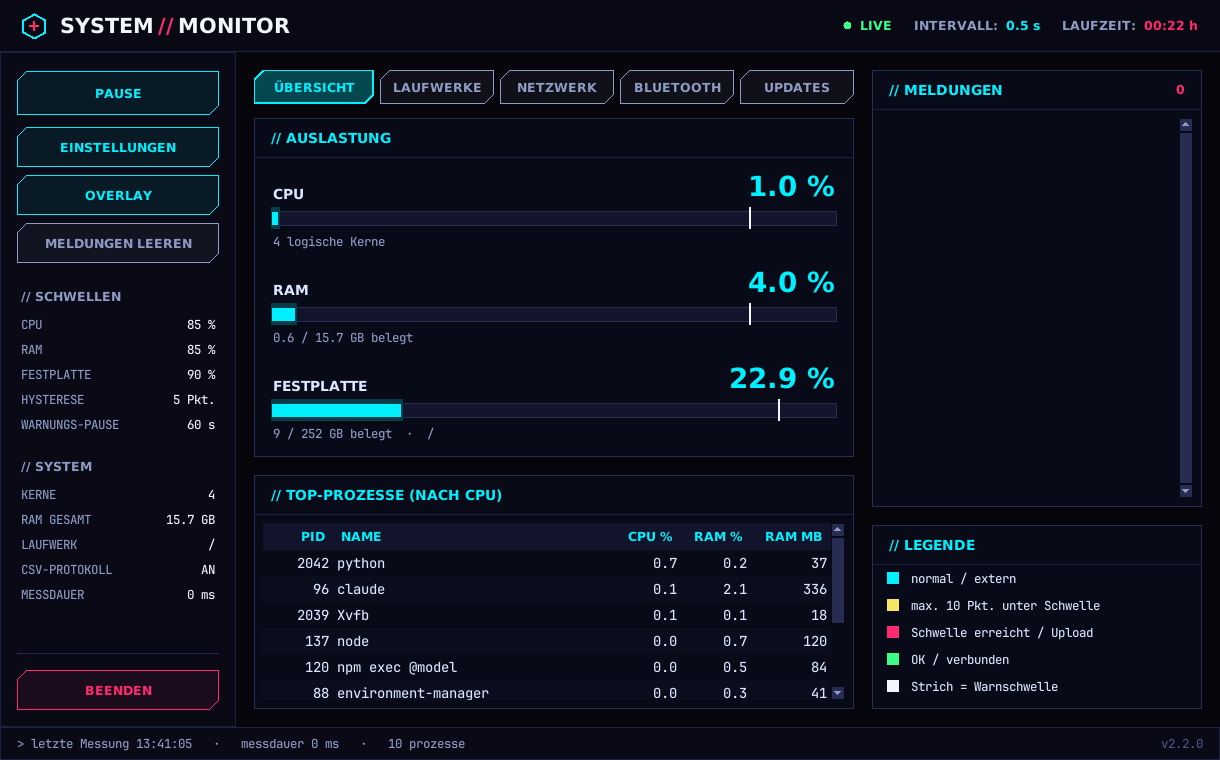
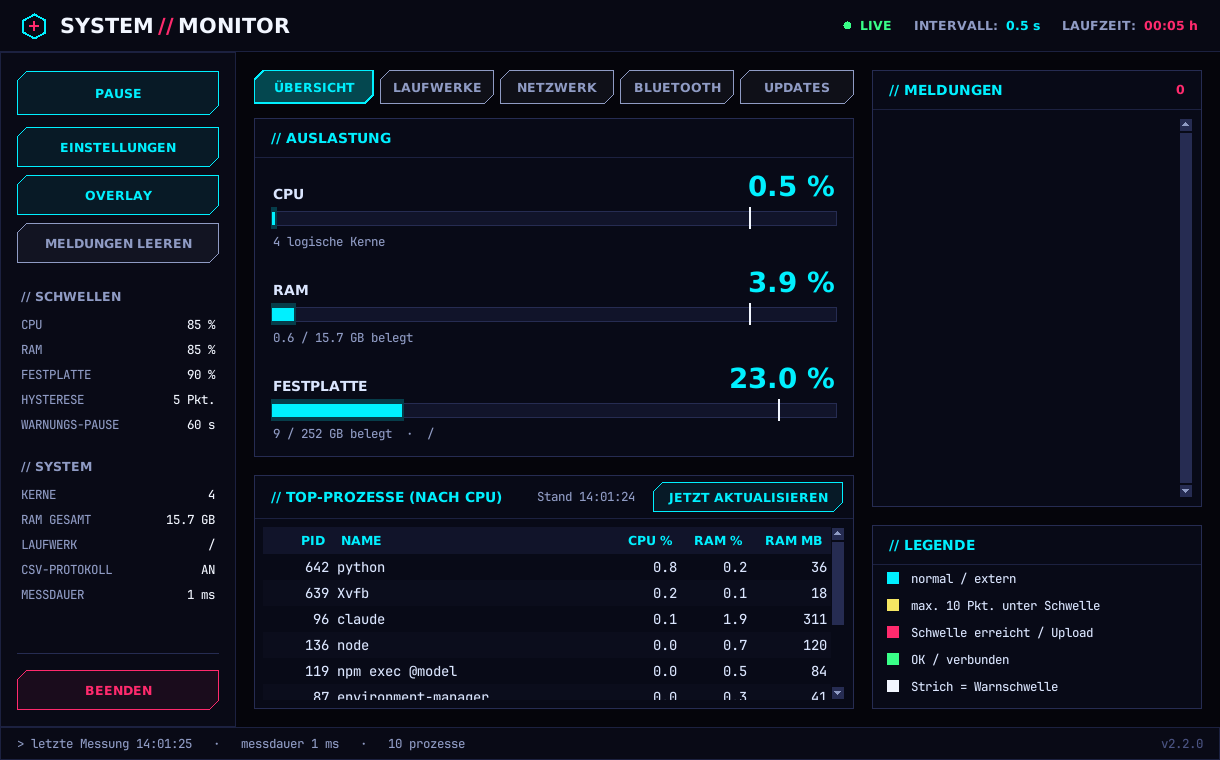
Prozessliste: Standardintervall 30 s, Knopf JETZT AKTUALISIEREN, Stand-Anzeige
Claude-Session: https://claude.ai/code/session_01Ug7stJ8eyGfn4FpXYDmT9c

diff --git a/system_monitor/monitor/gui.py b/system_monitor/monitor/gui.py
@@ -447,6 +447,10 @@ class MonitorApp:
 
         procs = self._panel(view, "TOP-PROZESSE (NACH CPU)")
         procs.grid(row=1, column=0, sticky="nsew")
+        self._small_button(procs.head, "JETZT AKTUALISIEREN", self.refresh_processes, width=190).pack(
+            side="right", padx=10, pady=6)
+        self.proc_stamp = self._label(procs.head, "Stand –", fg=C["muted"], font=self.f_small)
+        self.proc_stamp.pack(side="right", padx=6)
         self.tree = self._tree(procs.body, [("pid", "PID", 70, "e", False), ("name", "NAME", 150, "w", True),
                                             ("cpu", "CPU %", 70, "e", False), ("ram", "RAM %", 70, "e", False),
                                             ("mb", "RAM MB", 80, "e", False)], height=6)
@@ -787,6 +791,7 @@ class MonitorApp:
         if s.processes is not self._last_processes:       # Prozessliste unverändert -> nichts tun
             self._last_processes = s.processes
             self._update_tree(s)
+            self._set(self.proc_stamp, f"Stand {s.timestamp:%H:%M:%S}", fg=C["muted"])
 
     def _update_tree(self, s: Snapshot) -> None:
         """Vorhandene Zeilen wiederverwenden, nur geänderte Werte schreiben."""
@@ -981,6 +986,16 @@ class MonitorApp:
                       fg=C["green"])
         except Exception as exc:
             messagebox.showerror("Updates", str(exc), parent=self.root)
+
+    def refresh_processes(self) -> None:
+        """Prozessliste sofort neu erstellen (Knopf). Sie wird sonst nur alle process_interval_s Sekunden erstellt,
+        und nur, solange die Ansicht Übersicht sichtbar ist (der Scan dauert unter Windows mehrere Sekunden)."""
+        if self._minimized() or self._view != TAB_OVERVIEW:
+            return
+        self.monitor.collector.invalidate_processes()
+        self._set(self.proc_stamp, "wird erstellt …", fg=C["yellow"])
+        self.runner.submit("measure", lambda: self._measure(False),
+                           lambda res: self._handle("Messung", res, self._show_measurement))
 
     # ================================================================== Overlay
     def toggle_overlay(self) -> None:

diff --git a/system_monitor/tests/test_gui_smoke.py b/system_monitor/tests/test_gui_smoke.py
@@ -104,3 +104,28 @@ def test_hauptfenster_versteckt_zeichnet_nichts_und_scannt_nicht(app):
     app._hotkey_events.put("toggle")                # Tastenkürzel zurück
     pump(app, 0.5)
     assert not app.overlay.visible and app.root.state() == "normal"
+
+
+def test_knopf_aktualisiert_die_prozessliste_sofort(app):
+    pump(app, 2.5)
+    app.monitor.collector.process_interval_s = 3600      # automatisch praktisch nie
+    app.monitor.collector.invalidate_processes()
+    pump(app, 2.5)                                       # ein Scan läuft jetzt noch
+    before = len(app.process_calls)
+    pump(app, 2.0)
+    assert len(app.process_calls) == before              # ohne Knopf passiert nichts
+    app.refresh_processes()
+    pump(app, 3.0)
+    assert len(app.process_calls) == before + 1
+    assert app.proc_stamp.cget("text").startswith("Stand")
+
+
+def test_knopf_ist_in_anderer_ansicht_wirkungslos_bis_zur_uebersicht(app):
+    from monitor import gui
+    pump(app, 2.0)
+    app.select_view(gui.TAB_DRIVES)
+    app.monitor.collector.process_interval_s = 3600
+    n = len(app.process_calls)
+    app.refresh_processes()                              # nicht in der Übersicht: kein Scan
+    pump(app, 2.0)
+    assert len(app.process_calls) == n

diff --git a/system_monitor/monitor/config.py b/system_monitor/monitor/config.py
@@ -27,7 +27,7 @@ class Config:
     disk_path: str = ""              # leer = Systemlaufwerk automatisch
     alert_cooldown_s: int = 60       # Mindestabstand zwischen gleichen Warnungen
     top_processes: int = 10          # Anzahl angezeigter Prozesse
-    process_interval_s: float = 15.0  # Prozessliste neu erstellen alle n s (teuerster Teil, nur wenn sichtbar)
+    process_interval_s: float = 30.0  # Prozessliste neu erstellen alle n s (teuerster Teil, nur wenn sichtbar)
     csv_logging: bool = True         # Messwerte zusätzlich in CSV schreiben
     csv_flush_s: int = 30            # CSV gebündelt alle n s schreiben (0 = sofort)
     log_dir: str = "logs"            # Ordner für Log- und CSV-Dateien

diff --git a/system_monitor/tests/test_overlay.py b/system_monitor/tests/test_overlay.py
@@ -85,7 +85,7 @@ def test_overlay_standardwerte():
     assert cfg.overlay_click_through is True
     assert cfg.overlay_hotkey == "ctrl+alt+o"
     assert cfg.overlay_hide_main is True
-    assert cfg.process_interval_s == 15.0
+    assert cfg.process_interval_s == 30.0
 
 
 @pytest.mark.parametrize("field, value", [

diff --git a/system_monitor/HANDOFF.md b/system_monitor/HANDOFF.md
@@ -5,7 +5,7 @@ Stand: 2026-11-05 · Phase 1 (Analyse): Läufe Übersicht und Netzwerk gemessen,
 ## Aktueller Stand
 - Version **2.2.0**, Branch `claude/epic-cannon-mzki1z`. Alle Wünsche umgesetzt: Prozessliste nur bei Bedarf, Overlay in **drei Stilen** (A Leiste `bar`, B Mini-Kachel `tile`, C nur Zahlen `numbers`), **Cyberpunk-Komplettumbau**.
 - Basis der Oberfläche ist jetzt die Cyberpunk-`gui.py` des Nutzers (Seitenleiste, NeonButton/NeonBar, rechte Spalte). Mein Zwischenstand "helle/dunkle ttk-Oberfläche mit Kopfzeile (L3)" ist ersetzt (nicht im Repo; nur im Git-Verlauf, Commit `2262309`).
-- Aus meinem Teil in die Cyberpunk-GUI übernommen: Prozessliste nur bei sichtbarer Ansicht Übersicht (`skip_processes`, Intervall 15 s), Netzwerkzähler im Mess-Thread (`_measure`), Overlay-Knopf + globales Tastenkürzel, Overlay-Einstellungen (zweispaltiger Dialog), Overlay-Daten (`OverlayData`).
+- Aus meinem Teil in die Cyberpunk-GUI übernommen: Prozessliste nur bei sichtbarer Ansicht Übersicht (`skip_processes`, Intervall jetzt 30 s, Knopf JETZT AKTUALISIEREN mit "Stand"-Anzeige; die Messung unten lief noch mit 15 s), Netzwerkzähler im Mess-Thread (`_measure`), Overlay-Knopf + globales Tastenkürzel, Overlay-Einstellungen (zweispaltiger Dialog), Overlay-Daten (`OverlayData`).
 - **Mindestgröße jetzt 1020×640** (Vorgabe 720×560 gilt nicht mehr; Seitenleiste + rechte Spalte).
 - Tests: 96 grün unter Linux mit Bildschirm (Xvfb, Python 3.12), 88 grün + 8 übersprungen ohne Bildschirm. Windows/Python 3.14: **nicht ausgeführt**.
 - **Auf Windows gemessen:** Performance von 2.2.0 (siehe unten). **Nicht auf Windows getestet:** Klick-Durchlässigkeit, durchsichtiger Hintergrund im Stil `numbers` (`-transparentcolor`), globales Tastenkürzel, Overlay über einem Spiel. Checkliste: `docs/checkliste_test_windows.md`.
@@ -64,7 +64,7 @@ Fazit: Prozessliste ist Ursache für CPU, Timer-Verspätung, ausgebremste Hauptt
 
 ## Offene Punkte
 - Nutzer: Checkliste `docs/checkliste_test_windows.md` von Hand (Overlay, Tastenkürzel, Klick-Durchlässigkeit, `numbers`).
-- Entscheidung offen: Rest-Ruckeln in der Übersicht beheben (Intervall 30 s bzw. Prozessliste auf Knopfdruck; Prozess-Scan in eigenem Prozess; schneller Weg per ctypes als Prototyp zum Messen).
+- Option A umgesetzt (Intervall 30 s + Knopf). Nächste Messung nötig: `tools\messung_starten.bat` (Übersicht), Erwartung Scan-Anteil ca. 18 % statt 35 %. Danach entscheiden: B (Scan in eigenem Prozess) oder C (ctypes-Prototyp).
 - Ursache der ~7 ms je Prozess unbekannt; schneller Weg (ein Systemaufruf für alle Prozesse per ctypes) nur Hypothese, ungemessen.
 - Screenshots der Ansichten Laufwerke/Netzwerk/Bluetooth/Updates zeigen noch das helle Design von 2.1.
 - Ungeklärt: einmalige "CPU 100 %"-Warnung beim Start im Messlauf.

diff --git a/system_monitor/README.md b/system_monitor/README.md
@@ -100,13 +100,13 @@ Nicht ursächlich (gemessen, jeweils unter 2 ms): Prozesstabelle neu füllen, La
 
 | Maßnahme | Wirkung |
 |---|---|
-| Prozessliste nur, wenn das Fenster sichtbar und die Ansicht **Übersicht** offen ist (`skip_processes`); Intervall 15 s statt 5 s | gemessen, siehe Tabelle: in jeder anderen Ansicht ca. 1 % eines Kerns |
+| Prozessliste nur, wenn das Fenster sichtbar und die Ansicht **Übersicht** offen ist (`skip_processes`); Intervall **30 s** statt 5 s (seit der Messung unten; gemessen wurde mit 15 s) und Knopf **JETZT AKTUALISIEREN** mit Anzeige „Stand hh:mm:ss“ | in jeder anderen Ansicht gemessen ca. 1 % eines Kerns. Für 30 s erwarte ich in der Übersicht rund 18 % statt 35 % Scan-Anteil (Rechnung: 5,3 s von 30 s) – **noch nicht gemessen**. |
 | Netzwerkzähler werden im Mess-Thread gelesen | `_update_traffic` im Hauptthread: 0,1–1,5 ms statt 162–545 ms |
 | Minimiert oder Overlay-Modus (Hauptfenster versteckt): nichts zeichnen | Messung, Warnungen und CSV laufen weiter |
 | Meldungsliste auf 500 Einträge begrenzt | begrenzt den Speicher im Dauerbetrieb |
 | Texte, Balken und Tabellenzeilen nur bei Änderung setzen (Neon-Oberfläche), Overlay ebenso | spart Neuzeichnen |
 
-**Messung 2.2.0 auf Windows** (gleicher Rechner und gleiche Messung wie oben, Fenster 1220×760, Läufe vom 05.11.2026 14:52 und 14:55):
+**Messung 2.2.0 auf Windows** (gleicher Rechner und gleiche Messung wie oben, Fenster 1220×760, Läufe vom 05.11.2026 14:52 und 14:55, **mit Prozessliste-Intervall 15 s**; der Standard ist seitdem 30 s, dazu gibt es noch keine Messung):
 
 | Messwert (Übersicht / Netzwerk) | 2.1.1 | **2.2.0** |
 |---|---|---|
@@ -170,7 +170,7 @@ py main.py --updates      :: verfügbare winget-Updates auflisten
 | `disk_path` | `""` | Laufwerk für die Übersicht; leer = Systemlaufwerk |
 | `alert_cooldown_s` | 60 | Mindestabstand gleicher Warnungen in s |
 | `top_processes` | 10 | Anzahl angezeigter Prozesse |
-| `process_interval_s` | 15 | Prozessliste neu erstellen alle n s (teuerster Teil der Messung, nur bei sichtbarer Übersicht) |
+| `process_interval_s` | 30 | Prozessliste neu erstellen alle n s (teuerster Teil der Messung, nur bei sichtbarer Übersicht); sofort per Knopf **JETZT AKTUALISIEREN** |
 | `csv_logging` | true | Messwerte in CSV schreiben |
 | `csv_flush_s` | 30 | CSV gebündelt alle n s schreiben (0 = sofort) |
 | `log_dir` | `"logs"` | Ordner für Log und CSV |

diff --git a/system_monitor/docs/checkliste_test_windows.md b/system_monitor/docs/checkliste_test_windows.md
@@ -9,7 +9,8 @@ Ankreuzen: ✅ geht, ❌ geht nicht (kurz notieren was), ❓ nicht geprüft.
 | 2 | Fenster verschieben | läuft ruckelfrei, Anzeige läuft weiter | |
 | 3 | Fenster vergrößern/verkleinern (kleinstmöglich: 1020×640) | nichts abgeschnitten, kein Ruckeln | |
 | 4 | Tabs: Übersicht, Laufwerke, Netzwerk, Bluetooth, Updates | jede Ansicht öffnet; Seitenleiste und Meldungen bleiben sichtbar | |
-| 5 | Übersicht: Prozessliste | nach ca. 5–10 s gefüllt; danach nur alle ca. 15 s neu | |
+| 5 | Übersicht: Prozessliste | nach ca. 5–10 s gefüllt; danach nur alle ca. 30 s neu; „Stand“ im Kopf der Tabelle ändert sich | |
+| 5a | Knopf JETZT AKTUALISIEREN drücken | „wird erstellt …“, nach einigen Sekunden neuer Stand; Oberfläche ruckelt kurz (bekannt, Scan dauert ca. 5 s) | |
 | 6 | Anderer Tab öffnen, CPU im Task-Manager ansehen (Prozess `python.exe`) | deutlich unter 5 % eines Kerns | |
 | 7 | Fenster minimieren, 30 s warten, wiederherstellen | Werte sofort wieder da, keine Fehlermeldung | |
 | 8 | Pause / Fortsetzen | Anzeige friert ein / läuft weiter | |
